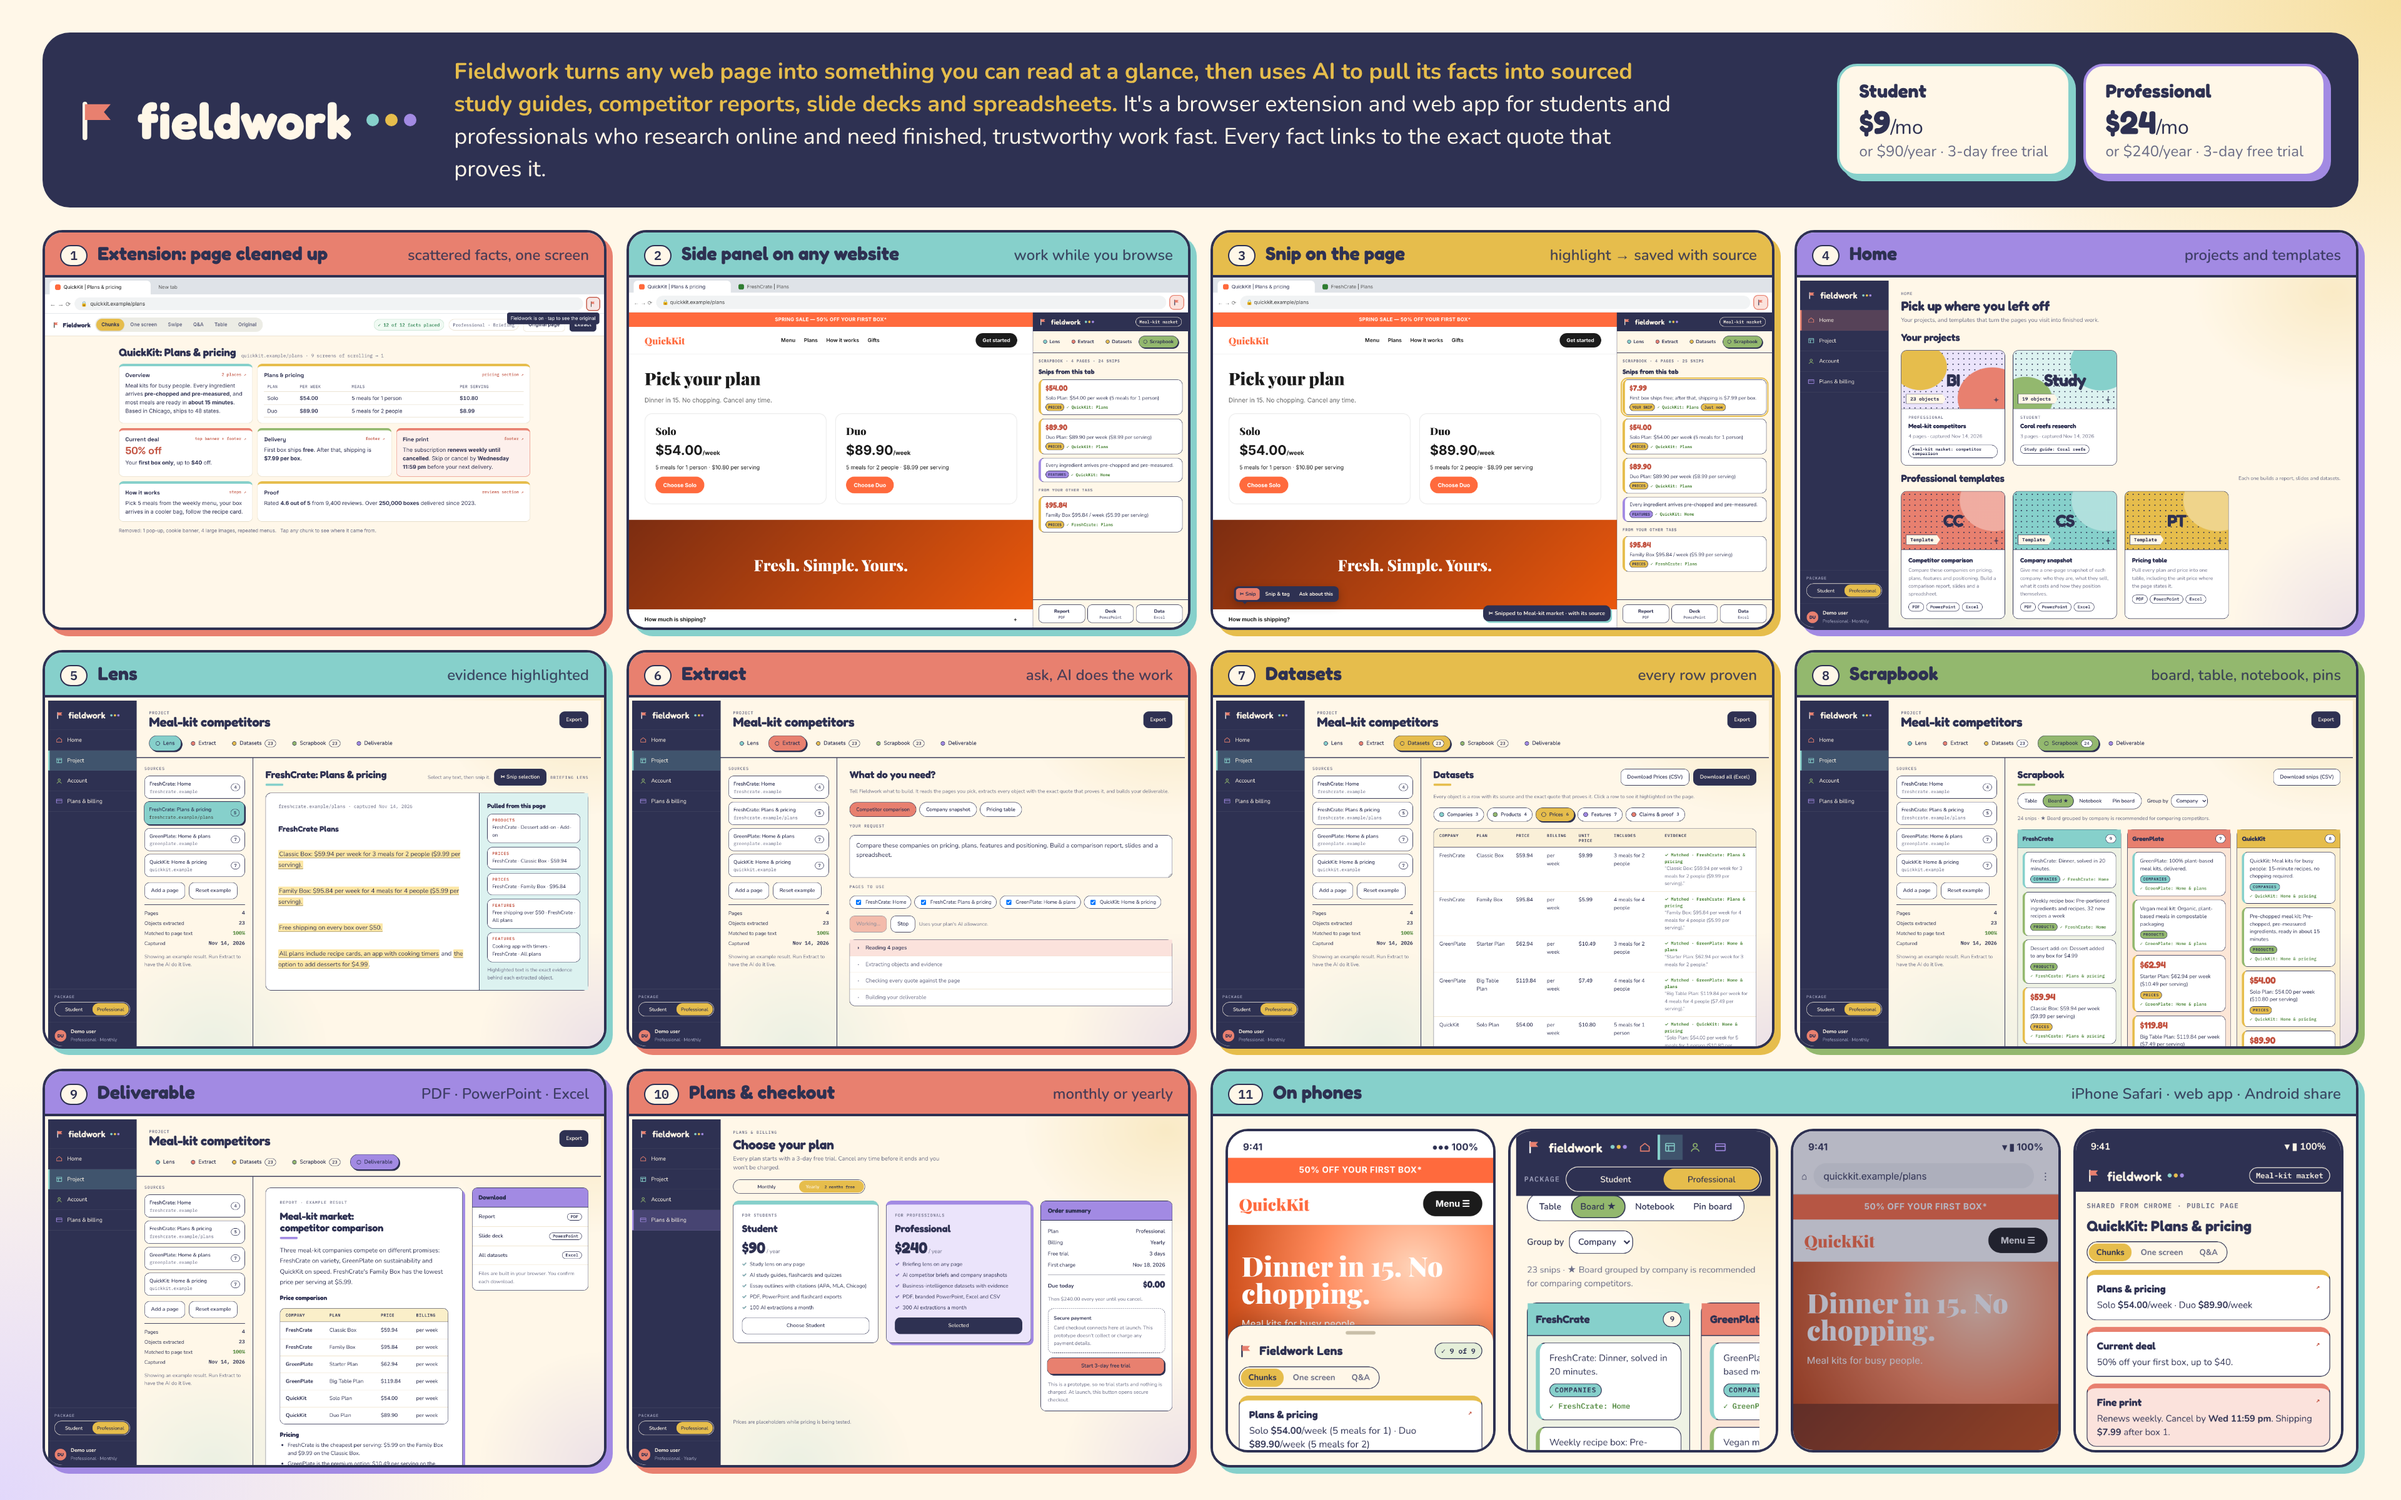
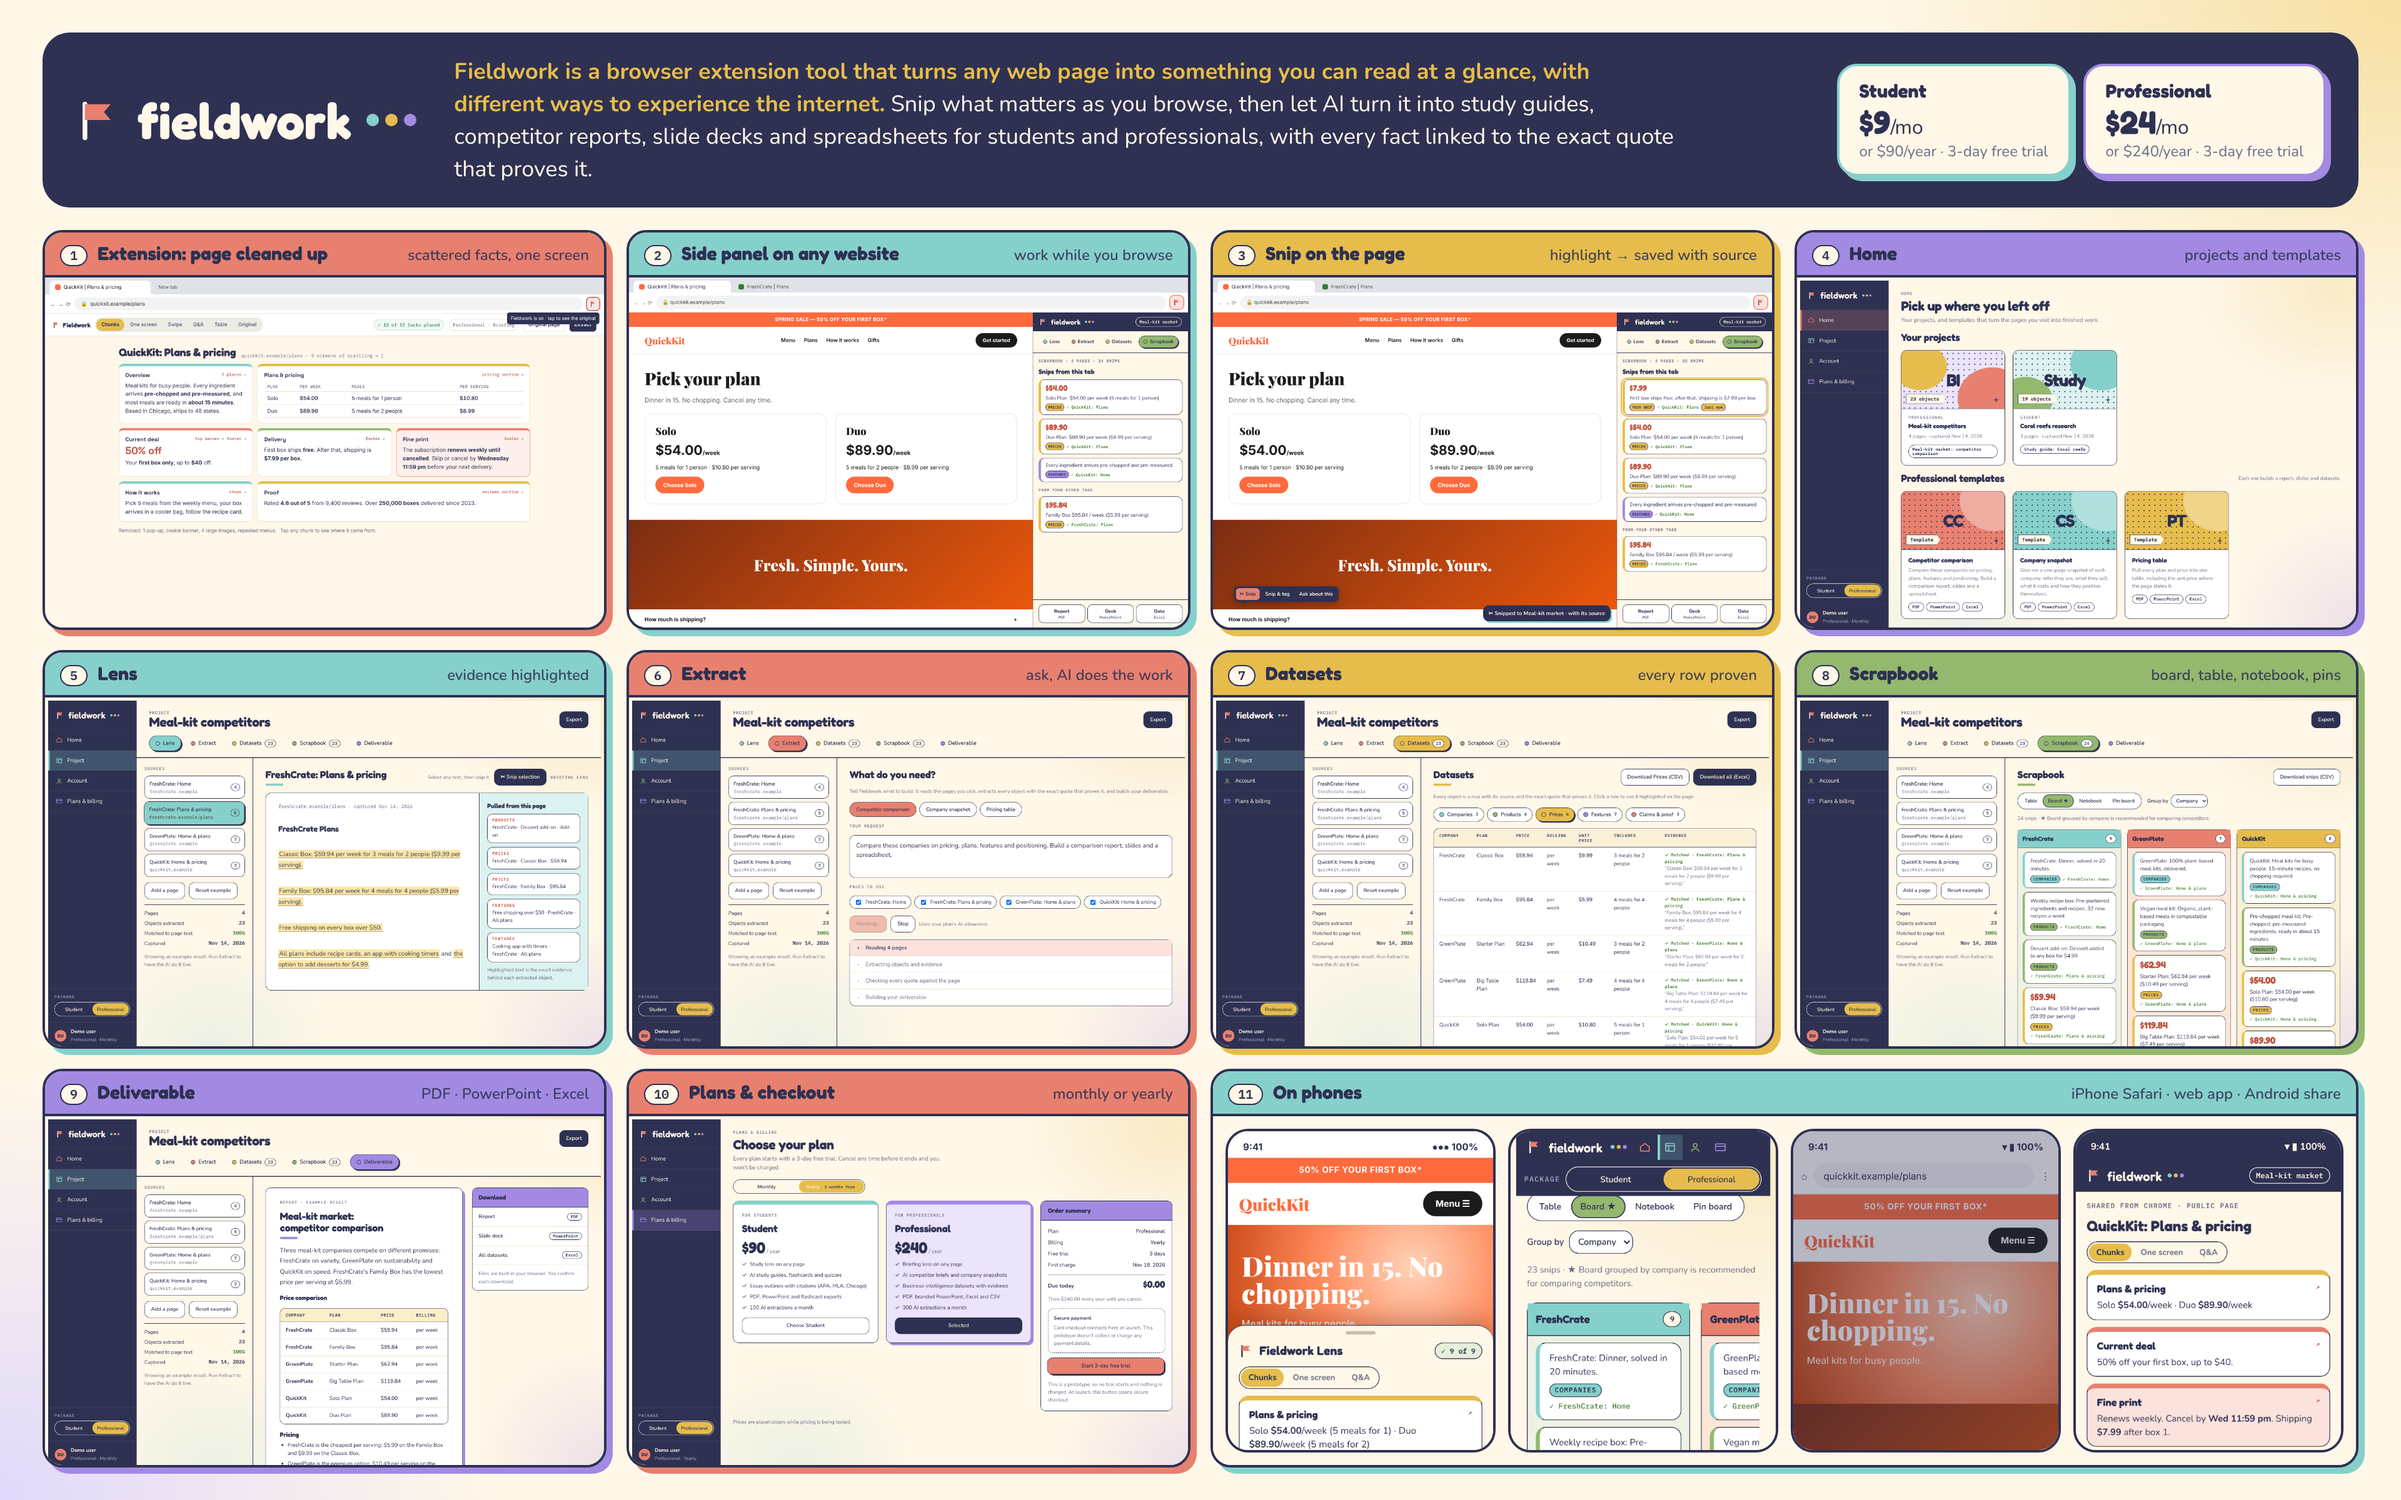
Fieldwork: updated pitch wording and phone overview split into three parts
Claude-Session: https://claude.ai/code/session_01EqzuJohQjQ55cYRxj1UmXr

Changed region(s): [[0.1875, 0.0312, 0.6875, 0.125]]

diff --git a/fieldwork/showcase-mvp/poster.html b/fieldwork/showcase-mvp/poster.html
@@ -32,7 +32,7 @@ header { display: grid; grid-template-columns: auto 1fr auto; gap: 30px; align-i
 </style></head><body><div class="wrap">
 <header>
   <div class="logo"><svg viewBox="0 0 24 24"><path d="M5 21V4" stroke="#fff7e8" stroke-width="2.4" stroke-linecap="round"/><path d="M5 4h13l-3.4 4L18 12H5" fill="#e8806f"/></svg>fieldwork <span class="dots"><i style="background:var(--mint)"></i><i style="background:var(--mustard)"></i><i style="background:var(--lavender)"></i></span></div>
-  <div class="pitch"><b>Fieldwork turns any web page into something you can read at a glance, then uses AI to pull its facts into sourced study guides, competitor reports, slide decks and spreadsheets.</b> It's a browser extension and web app for students and professionals who research online and need finished, trustworthy work fast. Every fact links to the exact quote that proves it.</div>
+  <div class="pitch"><b>Fieldwork is a browser extension tool that turns any web page into something you can read at a glance, with different ways to experience the internet.</b> Snip what matters as you browse, then let AI turn it into study guides, competitor reports, slide decks and spreadsheets for students and professionals, with every fact linked to the exact quote that proves it.</div>
   <div class="prices">
     <div class="price" style="--c:var(--mint)"><b>Student</b><span>$9</span>/mo<small>or $90/year · 3-day free trial</small></div>
     <div class="price" style="--c:var(--lavender)"><b>Professional</b><span>$24</span>/mo<small>or $240/year · 3-day free trial</small></div>

diff --git a/fieldwork/showcase-mvp/poster-vertical.html b/fieldwork/showcase-mvp/poster-vertical.html
@@ -35,8 +35,8 @@ footer b { font: 700 16px Fredoka, sans-serif; color: var(--ink); display: block
 </style></head><body><div class="wrap">
 <header>
   <div class="logo"><svg viewBox="0 0 24 24"><path d="M5 21V4" stroke="#fff7e8" stroke-width="2.4" stroke-linecap="round"/><path d="M5 4h13l-3.4 4L18 12H5" fill="#e8806f"/></svg>fieldwork <span class="dots"><i style="background:var(--mint)"></i><i style="background:var(--mustard)"></i><i style="background:var(--lavender)"></i></span></div>
-  <p class="lead">Turn any web page into something you can read at a glance, and into finished, sourced work.</p>
-  <p class="pitch">Fieldwork is a browser extension and web app for students and professionals. AI pulls a page's facts into study guides, competitor reports, slide decks and spreadsheets, and every fact links to the exact quote that proves it.</p>
+  <p class="lead">Fieldwork is a browser extension tool that turns any web page into something you can read at a glance, with different ways to experience the internet.</p>
+  <p class="pitch">Snip what matters as you browse, then let AI turn it into study guides, competitor reports, slide decks and spreadsheets for students and professionals, with every fact linked to the exact quote that proves it.</p>
   <div class="prices">
     <div class="price" style="--c:var(--mint)"><b>Student</b><span>$9</span>/mo<small>or $90/year<br>3-day free trial</small></div>
     <div class="price" style="--c:var(--lavender)"><b>Professional</b><span>$24</span>/mo<small>or $240/year<br>3-day free trial</small></div>
